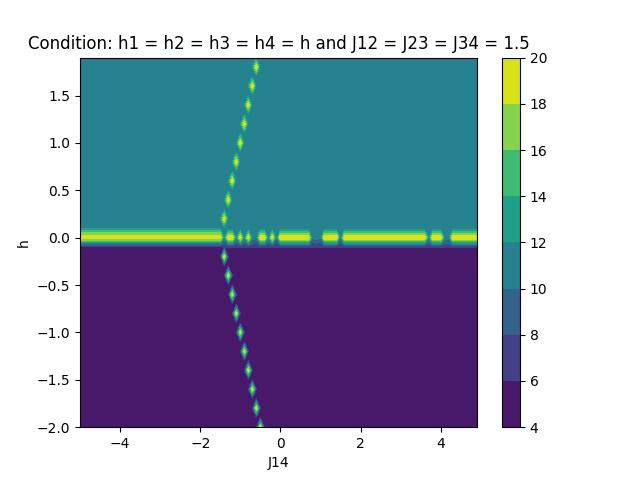
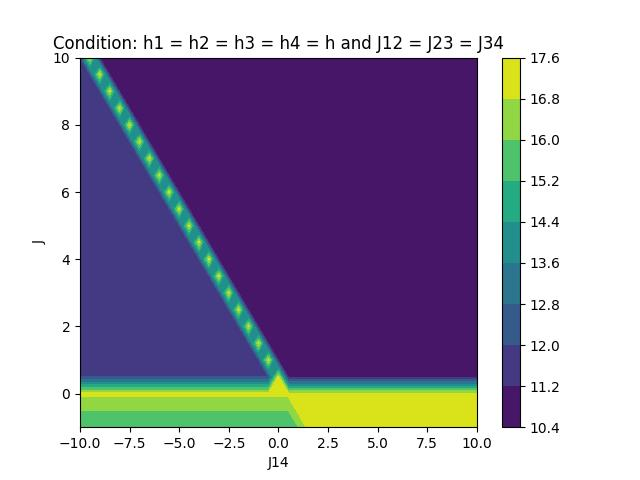
Plot of J and J14 - correct

diff --git a/kp2_plot.py b/kp2_plot.py
@@ -48,11 +48,6 @@ def round_half_up(n, decimals=0):
     multiplier = 10 ** decimals
     return math.floor(n*multiplier + 0.5) / multiplier
 
-# objective function parameters
-
-def biases(t):
-    return t
-
 # QPU anneal parameters
 
 data = pd.read_excel(r'.\DWAVE_2000Q_annealing_schedule.xlsx')
@@ -64,17 +59,17 @@ s = np.array(data['s'])
 
 h0 = (s1_I_I_I + I_s1_I_I + I_I_s1_I + I_I_I_s1)
 
-def hf(h, J14):
-    return (0.5 * biases(h) * s3_I_I_I + 0 * biases(h) * I_s3_I_I + biases(h) * I_I_s3_I + 0.5 * biases(h) * I_I_I_s3) + (1.5 * s3_s3_I_I + 1.5 * I_s3_s3_I + 1.5 * I_I_s3_s3 + J14 * s3_I_I_s3)
+def hf(J, J14):
+    return (0.5 * s3_I_I_I + 0 * I_s3_I_I + I_I_s3_I + 0.5 * I_I_I_s3) + (J * s3_s3_I_I + J * I_s3_s3_I + J * I_I_s3_s3 + J14 * s3_I_I_s3)
 
-def H(t, h, J14):
-    return - A.item(t) / 2 * h0 + B.item(t) / 2 * hf(h, J14)
+def H(t, J, J14):
+    return - A.item(t) / 2 * h0 + B.item(t) / 2 * hf(J, J14)
     
 # eigenvalues and eigenvectors
 
-def ground_state(h, J14):
+def ground_state(J, J14):
     for i in range (0, len(s)):
-        EigValues, EigVectors = np.linalg.eig(H(i, h, J14))
+        EigValues, EigVectors = np.linalg.eig(H(i, J, J14))
         permute = EigValues.argsort()
         EigValues = EigValues[permute]
         EigVectors = EigVectors[:,permute]
@@ -115,17 +110,17 @@ def ground_state(h, J14):
     elif pippo == 16.0:
         return 16
     else:
-        return 20
+        return 17
 
 z = []
 
-for h in np.arange(-2, 2, 0.1):
+for J in np.arange(-1, 10.5, 0.5):
     z.append([])
-    for J14 in np.arange(-5, 5, 0.1):
-         z[-1].append(ground_state(h, J14))
+    for J14 in np.arange(-10, 10.5, 0.5):
+         z[-1].append(ground_state(J, J14))
 
-xlist = np.linspace(-5, 4.9, 100)
-ylist = np.linspace(-2, 1.9, 40)
+xlist = np.linspace(-10, 10, 41)
+ylist = np.linspace(-1, 10, 23)
 X, Y = np.meshgrid(xlist, ylist)
  
 fig, ax = plt.subplots(1,1)
@@ -133,10 +128,10 @@ cp = ax.contourf(X, Y, z)
 
 fig.colorbar(cp) # Add a colorbar to a plot
 
-ax.set_title('Condition: h1 = h2 = h3 = h4 = h and J12 = J23 = J34 = 1.5')
+ax.set_title('Condition: h1 = h2 = h3 = h4 = h and J12 = J23 = J34')
 
 ax.set_xlabel('J14')
-ax.set_ylabel('h')
+ax.set_ylabel('J')
 
 plt.savefig('J14.pdf')
 plt.savefig('J14.jpg')
